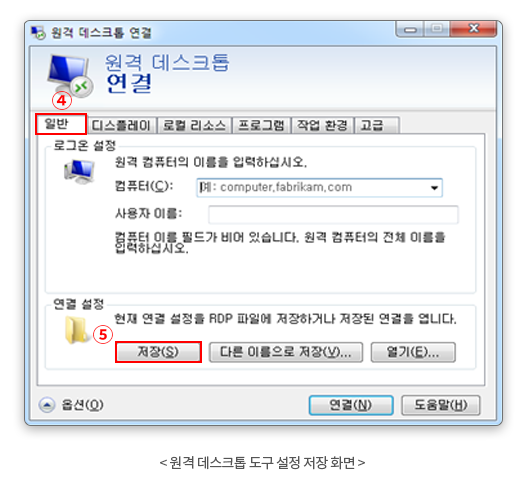
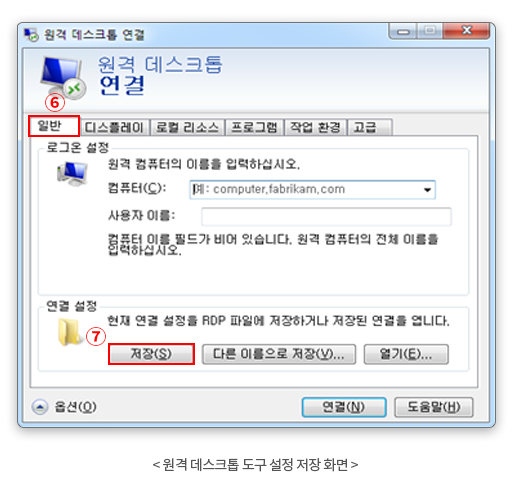
- 접속정보 가이드(윈도우) 내용 추가

Changed region(s): [[0.0311, 0.0311, 0.9942, 0.9006], [0.3107, 0.9317, 0.6835, 0.9938]]

diff --git a/comm/views/guideInfo/accessGuideInfo02.html b/comm/views/guideInfo/accessGuideInfo02.html
@@ -18,10 +18,16 @@
 	<p class="txt_level1 blt_none">③  <strong>‘지속적인 비트맵 캐싱(A)’</strong> 옵션을 선택해제 합니다.</p>
 	
 	<div class="imgWrap">
+		<img alt="" src="images/access_guide/access_guide_window_img07.png" alt="">
+	</div>
+	<p class="txt_level1 blt_none">④  <strong>‘로컬 리소스’</strong> 탭(tab)으로 이동합니다.</p>
+	<p class="txt_level1 blt_none">⑤  <strong>‘프린터(T)’</strong> 옵션을 체크 해제합니다.</p>
+	
+	<div class="imgWrap">
 		<img alt="" src="images/access_guide/access_guide_window_img03.png" alt="">
 	</div>
-	<p class="txt_level1 blt_none">④  <strong>‘일반’</strong> 탭(tab)으로 이동합니다.</p>
-	<p class="txt_level1 blt_none">⑤  <strong>‘저장’</strong> 버튼을 클릭하여 현재 설정을 영구 보존 합니다.</p>
+	<p class="txt_level1 blt_none">⑥  <strong>‘일반’</strong> 탭(tab)으로 이동합니다.</p>
+	<p class="txt_level1 blt_none">⑦  <strong>‘저장’</strong> 버튼을 클릭하여 현재 설정을 영구 보존 합니다.</p>
 	
 	<h3 class="pt80">2. 접속 방법</h2>
 	<p class="txt_level1 pdb0">접속도구를 통해 생성된 가상 윈도우 서버에 접속하는 방법을 안내합니다.</p>
